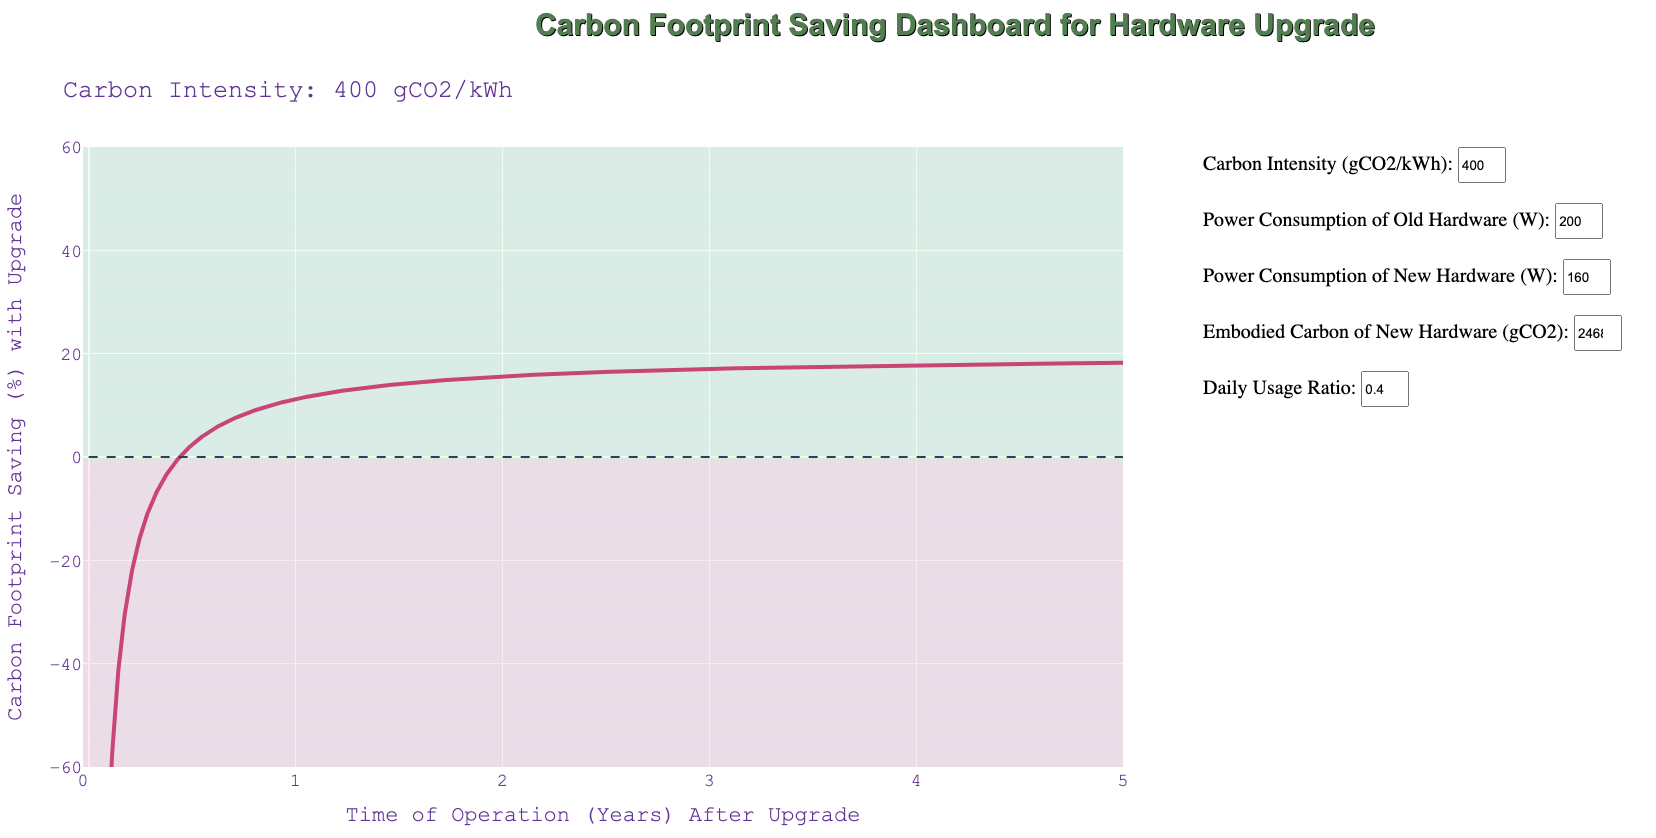
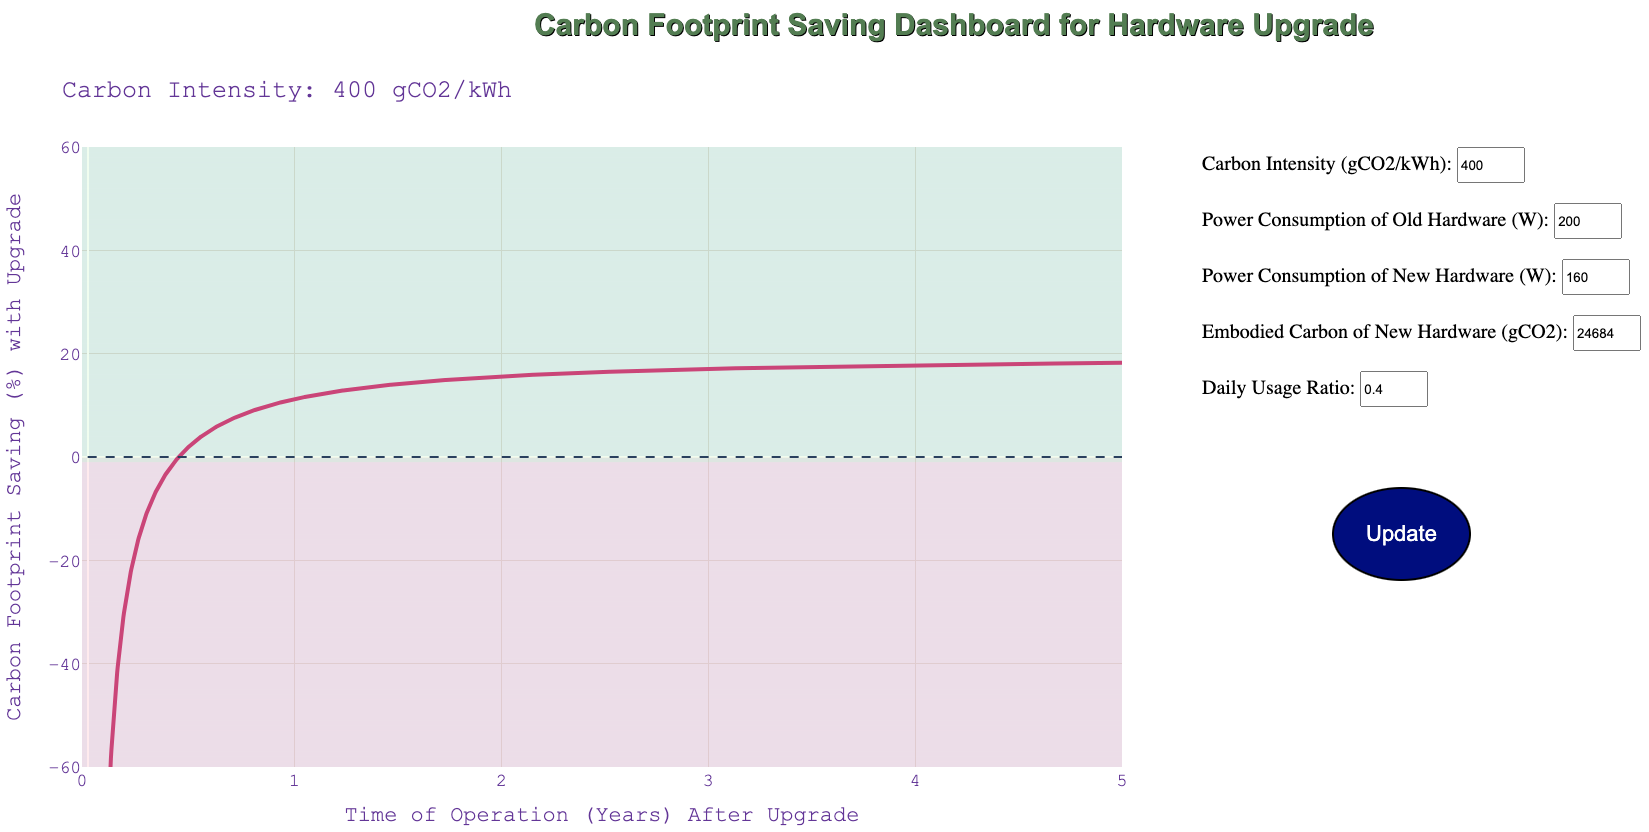
Minor updates to dashboard

diff --git a/combined_carbon/dashboard.py b/combined_carbon/dashboard.py
@@ -1,6 +1,6 @@
 import dash
 from dash import html, dcc
-from dash.dependencies import Output, Input
+from dash.dependencies import Output, Input, State
 import plotly.graph_objects as go
 
 app = dash.Dash(__name__)
@@ -35,18 +35,34 @@ app.layout = html.Div([
             html.Br(),
             html.Label('Daily Usage Ratio: ', style={'fontSize': 20, 'marginTop': '20px'}),
             dcc.Input(id='usage-input', type='number', value=0.4, style={'height': '30px', 'width': '60px', 'marginBottom': '20px'}),
-
+            html.Br(),
+            html.Button('Update', id='update-button', n_clicks=0, style={
+                'backgroundColor': 'navy',
+                'border': '2px solid black',
+                'color': 'white',
+                'padding': '32px 32px',
+                'textAlign': 'center',
+                'textDecoration': 'none',
+                'display': 'inline-block',
+                'fontSize': '22px',
+                'margin': '60px 130px',
+                'cursor': 'pointer',
+                'borderRadius': '50%'
+            })
         ], style={'marginLeft': '0px', 'marginTop': '100px'}),
     ], style={'display': 'flex'})
 ])
 
-@app.callback(Output('graph', 'figure'),
-              [Input('carbon-intensity-input', 'value'),
-               Input('embodied-carbon-input', 'value'),
-               Input('old-power-input', 'value'),
-               Input('new-power-input', 'value'),
-               Input('usage-input', 'value')])
-def update_graph(carbon_intensity, embodied_carbon_new, old_power_Watt, new_power_Watt, daily_usage_ratio):
+@app.callback(
+    Output('graph', 'figure'),
+    [Input('update-button', 'n_clicks')],
+    [State('carbon-intensity-input', 'value'),
+     State('old-power-input', 'value'),
+     State('new-power-input', 'value'),
+     State('embodied-carbon-input', 'value'),
+     State('usage-input', 'value')]
+)
+def update_graph(n_clicks, carbon_intensity, old_power_Watt, new_power_Watt, embodied_carbon_new, daily_usage_ratio):
     operation_carbon_old_per_day = old_power_Watt * 24 / 1000 * daily_usage_ratio
     operation_carbon_new_per_day = new_power_Watt * 24 / 1000 * daily_usage_ratio
     per_day_carbon_save = [100*((operation_carbon_old_per_day*carbon_intensity*i)-(operation_carbon_new_per_day*carbon_intensity*i + embodied_carbon_new))/(operation_carbon_old_per_day*carbon_intensity*i)  for i in range(1,2000)]
@@ -73,8 +89,10 @@ def update_graph(carbon_intensity, embodied_carbon_new, old_power_Watt, new_powe
         xaxis = dict(
             tickmode = 'array',
             tickvals = [-10,365,365*2,365*3,365*4, 365*5],
-            ticktext = ['0', '1', '2', '3', '4','5']
-        )
+            ticktext = ['0', '1', '2', '3', '4','5'],
+            gridcolor='lightgray',
+        ),
+        yaxis=dict(gridcolor='lightgray')
     )
     fig.update_yaxes(range=[-60, 60])  # set the y-axis limits
     fig.update_xaxes(range=[-10, 365*5])
